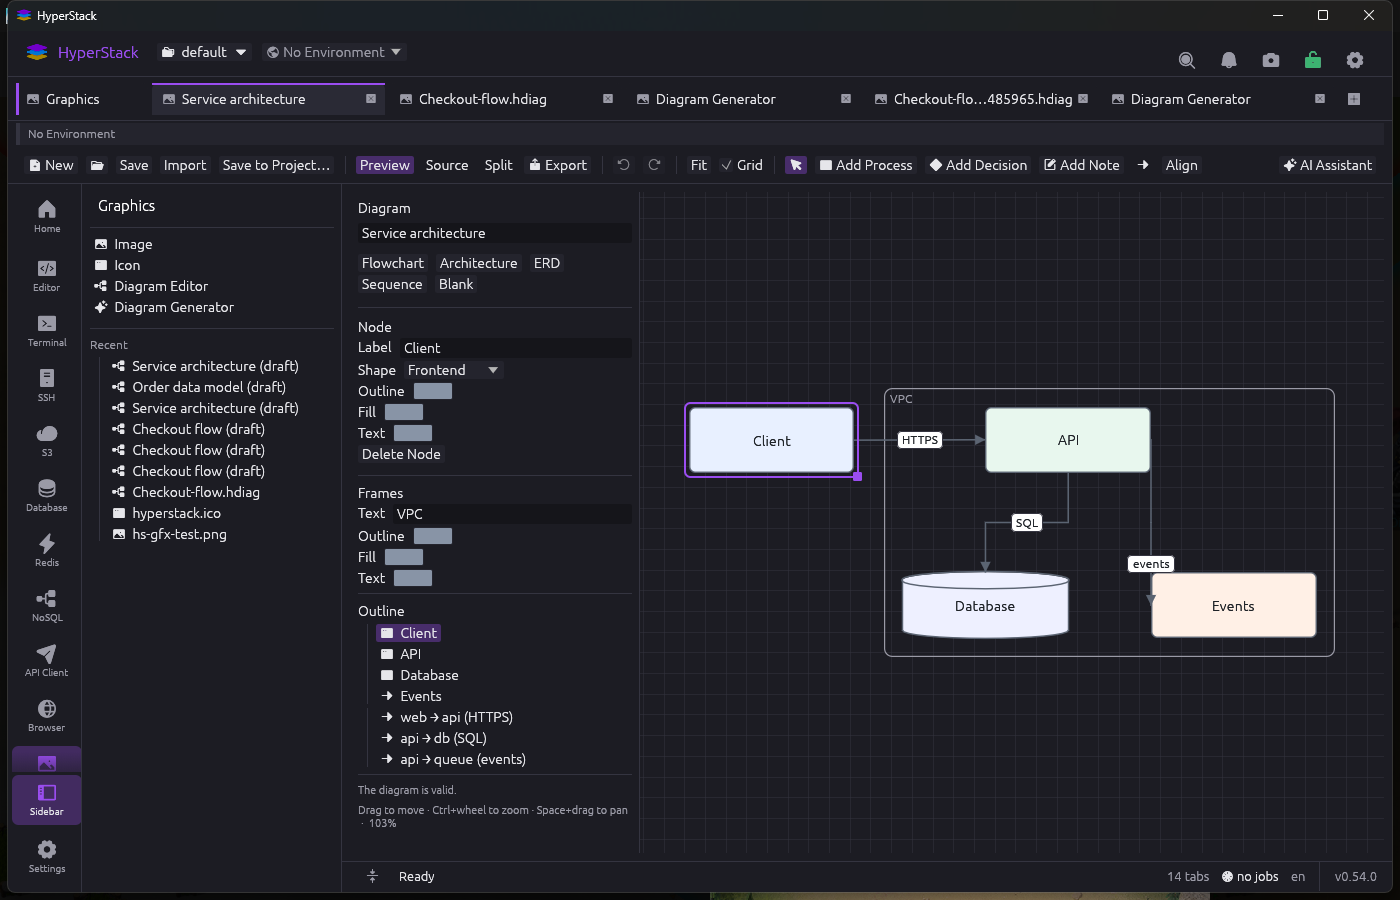
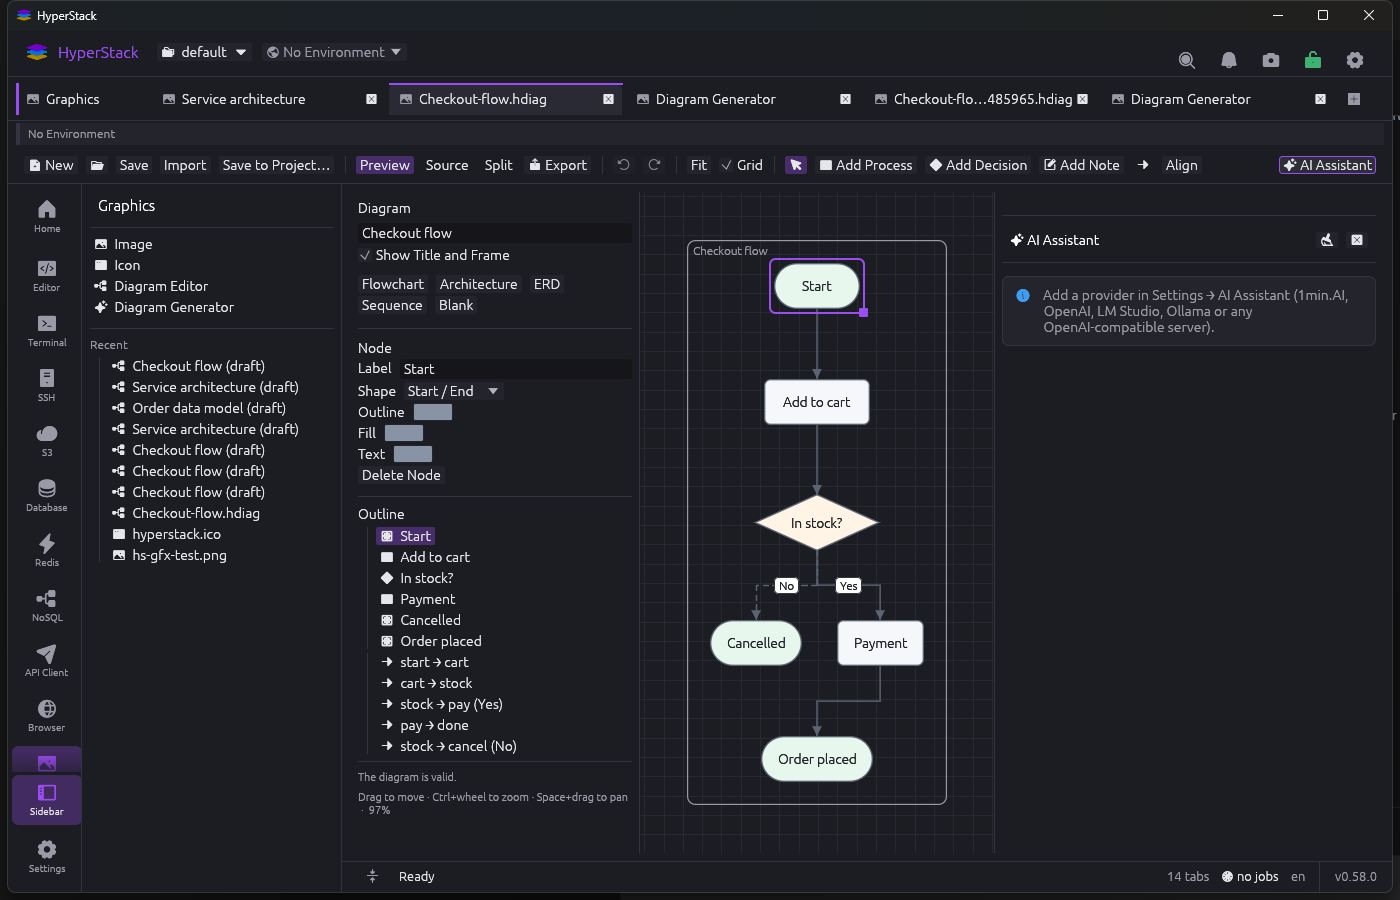
feat: resize diagram frames and refresh screenshots
Selected frames get a corner grip that scales their nodes relative to the frame; dashboard, AI column, editor and GIF screenshots refreshed; checklist repaired.

diff --git a/crates/tools/tool-graphics/src/diagram.rs b/crates/tools/tool-graphics/src/diagram.rs
@@ -17,6 +17,13 @@ use hs_ui::theme::Theme;
 
 /// Frame id, press position and the nodes captured for a frame drag.
 type FrameDrag = (String, egui::Pos2, Vec<(String, Point)>);
+/// Frame id, start rect, node geometry (id, x, y, w, h) and press position.
+type FrameResize = (
+    String,
+    egui::Rect,
+    Vec<(String, f32, f32, f32, f32)>,
+    egui::Pos2,
+);
 
 #[derive(Debug, Clone, Copy, PartialEq, Eq)]
 enum AlignMode {
@@ -75,6 +82,7 @@ pub struct DiagramState {
     drag_resize: Option<(String, f32, f32, egui::Pos2)>,
     drag_via: Option<(String, usize, Point, egui::Pos2)>,
     drag_frame: Option<FrameDrag>,
+    drag_frame_resize: Option<FrameResize>,
     drag_pan: Option<(egui::Vec2, egui::Pos2)>,
     last_center: Point,
     saved: Option<PathBuf>,
@@ -126,6 +134,7 @@ impl DiagramState {
             drag_resize: None,
             drag_via: None,
             drag_frame: None,
+            drag_frame_resize: None,
             drag_pan: None,
             last_center: Point { x: 0.0, y: 0.0 },
             saved: None,
@@ -1159,6 +1168,44 @@ impl DiagramState {
                         }
                     }
                 }
+                if !grip
+                    && let Some(label) = self.selected_group.as_ref().and_then(|id| {
+                        self.doc
+                            .groups
+                            .iter()
+                            .find(|g| &g.id == id)
+                            .map(|g| g.label.clone())
+                    })
+                    && let Some(rect) = scene.prims.iter().find_map(|p| match p {
+                        Prim::Frame { rect, label: l, .. } if l == &label => Some(*rect),
+                        _ => None,
+                    })
+                {
+                    let r = srect(rect);
+                    if (pos - r.right_bottom()).abs().max_elem() < 14.0
+                        && let Some((gid, nodes)) = self
+                            .selected_group
+                            .as_ref()
+                            .and_then(|id| self.doc.groups.iter().find(|g| &g.id == id))
+                            .map(|g| {
+                                let nodes = g
+                                    .nodes
+                                    .iter()
+                                    .filter_map(|id| {
+                                        self.doc.node(id).map(|n| {
+                                            (id.clone(), n.x, n.y, n.w.max(40.0), n.h.max(30.0))
+                                        })
+                                    })
+                                    .collect();
+                                (g.id.clone(), nodes)
+                            })
+                    {
+                        self.push_undo();
+                        self.freeze();
+                        self.drag_frame_resize = Some((gid, r, nodes, pos));
+                        grip = true;
+                    }
+                }
                 if !grip {
                     let frame_hit = scene.prims.iter().find_map(|p| {
                         let Prim::Frame { rect, label, .. } = p else {
@@ -1248,6 +1295,24 @@ impl DiagramState {
                     via.y = start.y + dy;
                 }
                 self.dirty = true;
+            } else if let (Some((_, start, nodes, from)), Some(pos)) =
+                (&self.drag_frame_resize, pointer)
+            {
+                let left = (start.left() - origin.x) / z;
+                let top = (start.top() - origin.y) / z;
+                let sx =
+                    ((start.width() + (pos.x - from.x)) / start.width().max(1.0)).clamp(0.2, 5.0);
+                let sy =
+                    ((start.height() + (pos.y - from.y)) / start.height().max(1.0)).clamp(0.2, 5.0);
+                for (id, x, y, w, h) in nodes {
+                    if let Some(node) = self.doc.nodes.iter_mut().find(|n| &n.id == id) {
+                        node.x = left + (x - left) * sx;
+                        node.y = top + (y - top) * sy;
+                        node.w = (w * sx).max(40.0);
+                        node.h = (h * sy).max(30.0);
+                    }
+                }
+                self.dirty = true;
             } else if let (Some((_, from, nodes)), Some(pos)) = (&self.drag_frame, pointer) {
                 let dx = (pos.x - from.x) / z;
                 let dy = (pos.y - from.y) / z;
@@ -1281,6 +1346,7 @@ impl DiagramState {
             self.drag_resize = None;
             self.drag_via = None;
             self.drag_frame = None;
+            self.drag_frame_resize = None;
             self.drag_pan = None;
         }
         let clicked =

diff --git a/CHECKLIST.md b/CHECKLIST.md
@@ -349,18 +349,19 @@ item below was documented in the affected docs before the code was written.
 | Tab strip right margin / last close button | Completed | `STRIP_RIGHT_PAD` 14 px in `hs_ui::tabs` |
 | Image and Icon Undo/Redo, Ctrl+Z / Ctrl+Y, global limit | Completed | snapshots in `GraphicsTool`, Settings → General → Behaviour → Undo Limit 1–100 |
 | Diagram database cylinder and edge arrow/route/line attributes | Completed | Cylinder draws the body, full top ellipse and only the front half of the bottom ellipse; edge grid has Arrow/Route/Line |
-'| Offline diagram generation without an AI provider | Completed | **Offline Draft** splits the prompt into steps and chains them; tested in the app and unit-tested |
+| Offline diagram generation without an AI provider | Completed | **Offline Draft** splits the prompt into steps and chains them; tested in the app and unit-tested |
 | Generator provider/model picker and Set AI Provider | Completed | Per-run Provider and Model; **Set AI Provider** opens Settings → AI Assistant (`settings:ai`) |
 | More templates | Completed | CI Pipeline, Support Triage and Event Architecture added to the template gallery |
 | Diagram title/frame toggle | Completed | `DiagramDoc.show_title`; layout emits a dashed title frame, properties has the checkbox |
-| Frame drag and selection | Completed | Outline selection and accent frame; dragging the frame border moves its nodes |
+| Frame drag, resize and selection | Completed | Outline selection and accent frame; border drag moves nodes, corner grip scales them |
 | Edge label drag and line styles | Completed | `label_at`, draggable label, Solid/Dashed/Dotted painting and SVG |
 | Assistant as a column | Completed | `assistant_column` uses a right `Panel`; Copy and Update/Generate at the top |
-'| Dashboard New Diagram/Generation enabled | Completed | Cards and function rows enable both actions |
+| Dashboard New Diagram/Generation enabled | Completed | Cards and function rows enable both actions |
 | Assistant Markdown and inline actions | Completed | Shared panel renders headings/lists/inline code; Copy, Replace Diagram and Append JSON per answer; JSON example hint |
-| Dashboard card centring | Completed |' Custom painted card with a centred icon and label |
-| Tab rows fit | Completed | Layout uses the narrowest row budget; `every_row_fits_inside_the_strip` test || Node, edge and frame colours | Completed | Outline/Fill/Text on nodes, Outline/Label on edges, Text/Outline/Fill/Text on frames; frames use their style in the canvas and SVG and show a selection accent from the Outline |
-| Empty separator hidden | Completed | Separators only render when a node or edge is selected |'
+| Dashboard card centring | Completed | Custom painted card with a centred icon and label |
+| Tab rows fit | Completed | Layout uses the narrowest row budget; `every_row_fits_inside_the_strip` test |
+| Node, edge and frame colours | Completed | Outline/Fill/Text on nodes, Outline/Label on edges, Text/Outline/Fill/Text on frames; frames use their style in the canvas and SVG |
+| Empty separator hidden | Completed | Separators only render when a node or edge is selected |
 | Refresh every screenshot and the walkthrough GIF, README licence MIT | In-Progress | README licence MIT; five key screenshots and `hyperstack-demo.gif` refreshed, the remaining 100+ shots are still the 0.45–0.54 set |
 ## Owner's requests, 2026-10-19 (Graphics diagrams)
 

diff --git a/README.md b/README.md
@@ -274,12 +274,12 @@ keys typed into a utility are never saved.
 | **Diagram Editor** — the flowchart template on the canvas with the Diagram panel, Outline, shape picker and undo/redo; nodes can be selected, moved and connected, and the same scene exports as SVG, PNG or PDF | **Architecture template** — the grid with a VPC boundary, database cylinder and labelled async links; the properties panel shows the selected component |
 | ![Diagram Generator](docs/screenshots/graphics-diagram-generator.png) | ![Rendered flowchart](docs/screenshots/graphics-diagram-flow.png) |
 | **Diagram Generator** — type picker, prompt, examples, Use Template and Generate; with no AI provider the offline template is a real result and the message says so | **Same scene, exported** — the generator’s preview is the editor’s scene and the SVG/PNG/PDF writer, so the export matches the screen |
-| ![Source and preview](docs/screenshots/graphics-source-preview.png) | ![Node shapes](docs/screenshots/graphics-node-shapes.png) |
-| **Source and Preview** — the Split view puts the live JSON on the right, so every properties edit appears in the source at once | **Proper node shapes** — the database is a cylinder, decisions are diamonds and the Outline carries a shape icon for every node |
-| ![Save to Project](docs/screenshots/graphics-save-project.png) | ![Edge properties](docs/screenshots/graphics-edge-properties.png) |
-| **Save to Project** — pick an open Editor project, keep `docs/diagrams`, name the file and confirm an overwrite | **Edge editing** — select an edge from the Outline to edit its label, arrow, route, dashed line, waypoints and deletion |
-| ![ERD](docs/screenshots/graphics-erd.png) | ![Sequence](docs/screenshots/graphics-sequence.png) |
-| **ERD template** — entities with columns and keys, and a `1 .. *` relationship | **Sequence template** — Client, API and Database with labelled request and insert messages |
+| ![AI column and title frame](docs/screenshots/graphics-ai-column.png) | ![Source and preview](docs/screenshots/graphics-source-preview.png) |
+| **AI Assistant column** — a fixed right pane, with the title frame around the diagram and a frame resize grip | **Source and Preview** — Split puts the live JSON to the right of the canvas |
+| ![Node shapes](docs/screenshots/graphics-node-shapes.png) | ![Save to Project](docs/screenshots/graphics-save-project.png) |
+| **Proper node shapes** — the database is a cylinder, decisions are diamonds and the Outline carries a shape icon for every node | **Save to Project** — pick an open Editor project, keep `docs/diagrams`, name the file and confirm an overwrite |
+| ![Edge properties](docs/screenshots/graphics-edge-properties.png) | ![Sequence](docs/screenshots/graphics-sequence.png) |
+| **Edge editing** — select an edge from the Outline to edit its label, arrow, route, dashed or dotted line, waypoints and deletion | **Sequence template** — Client, API and Database with labelled request and insert messages |
 
 **Implemented (2026-10-20):** the activity shell, the dashboard and Recent
 list, the separate Image and Icon tabs, Convert to Icon and icon colour-key

diff --git a/docs/screenshots/README.md b/docs/screenshots/README.md
@@ -293,3 +293,11 @@ on, after the UI consistency pass:
 
 `hyperstack-demo.gif` was rebuilt from these five frames with
 `magick -delay 150 -loop 0 <frames> -resize 1200x -colors 256 -layers Optimize`.
+## 2026-10-21: frame resize, title frame and assistant column
+
+- `graphics-ai-column.png` — the Diagram Editor with the AI Assistant as its
+  own right-hand column and the title frame around the diagram.
+- `graphics-dashboard.png` — enabled New Diagram / New Generation cards.
+- `graphics-node-shapes.png` — updated to the current editor.
+- `hyperstack-demo.gif` rebuilt from the current dashboard, assistant column,
+  source split, editor and settings screenshots.

diff --git a/CHANGELOG.md b/CHANGELOG.md
@@ -9,9 +9,15 @@ released sections by hand.
 Format: [Keep a Changelog](https://keepachangelog.com/en/1.1.0/) · Versioning:
 [Semantic Versioning](https://semver.org/).
 
-''## Unreleased
+'''## Unreleased
 
-### Security
+### Added
+
+- Diagram Editor: frame resize grip; a selected frame scales its nodes from the
+  corner while keeping positions relative to the frame.
+- Documentation: refreshed dashboard, AI column, editor and GIF screenshots.
+
+### Security'
 
 - Updated `rustls-webpki`, `webpki-roots` and `webpki-root-certs` to clear
   RUSTSEC-2026-0381/0382/0383.
